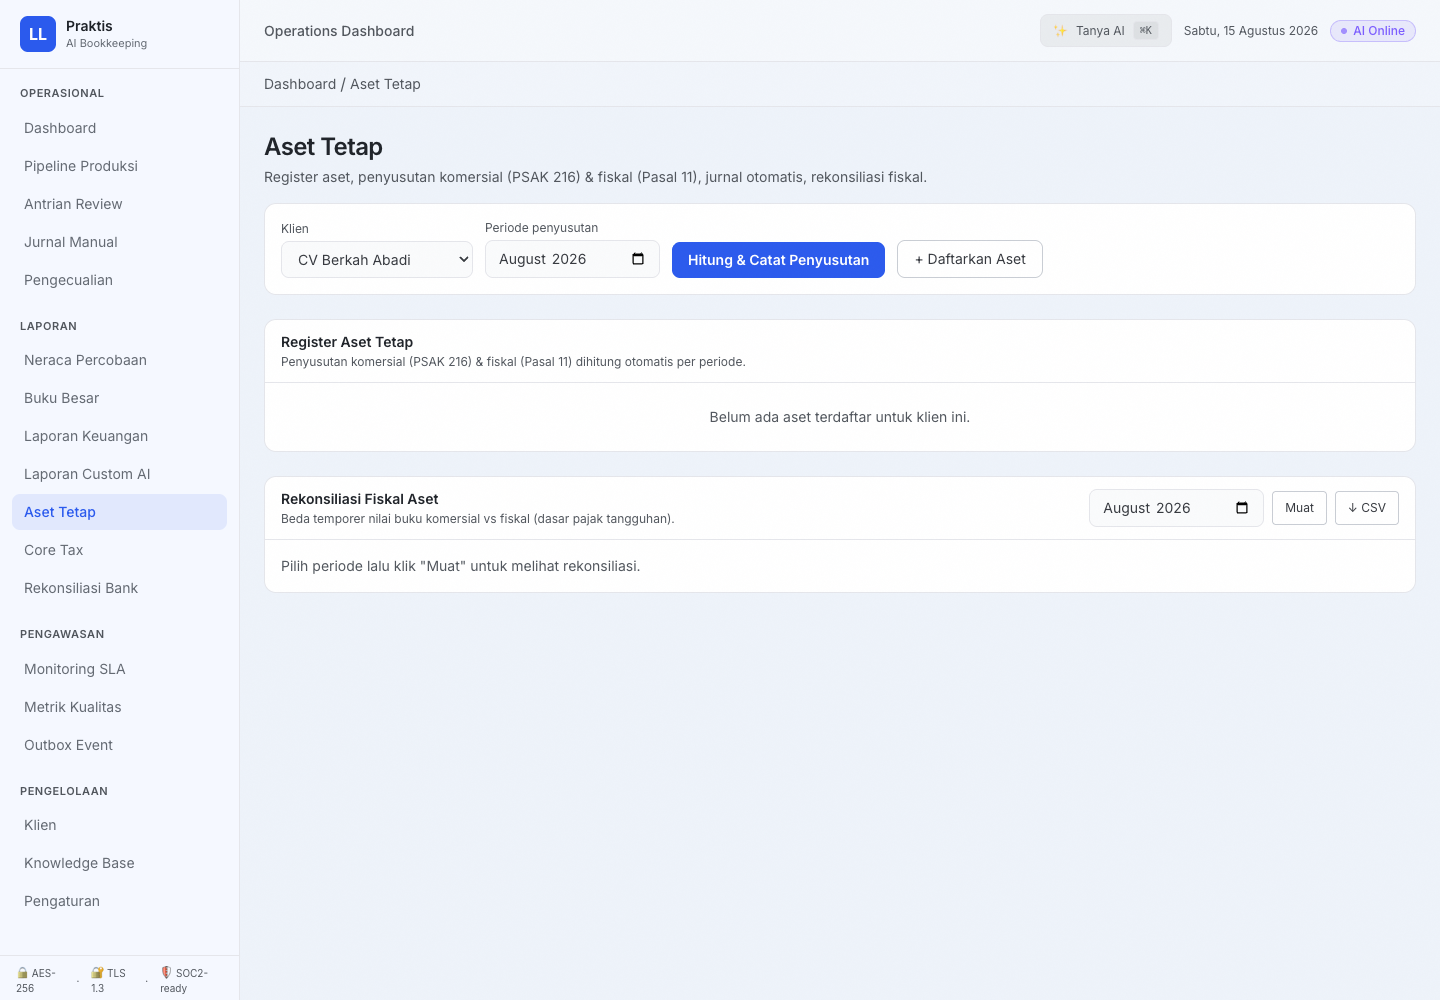
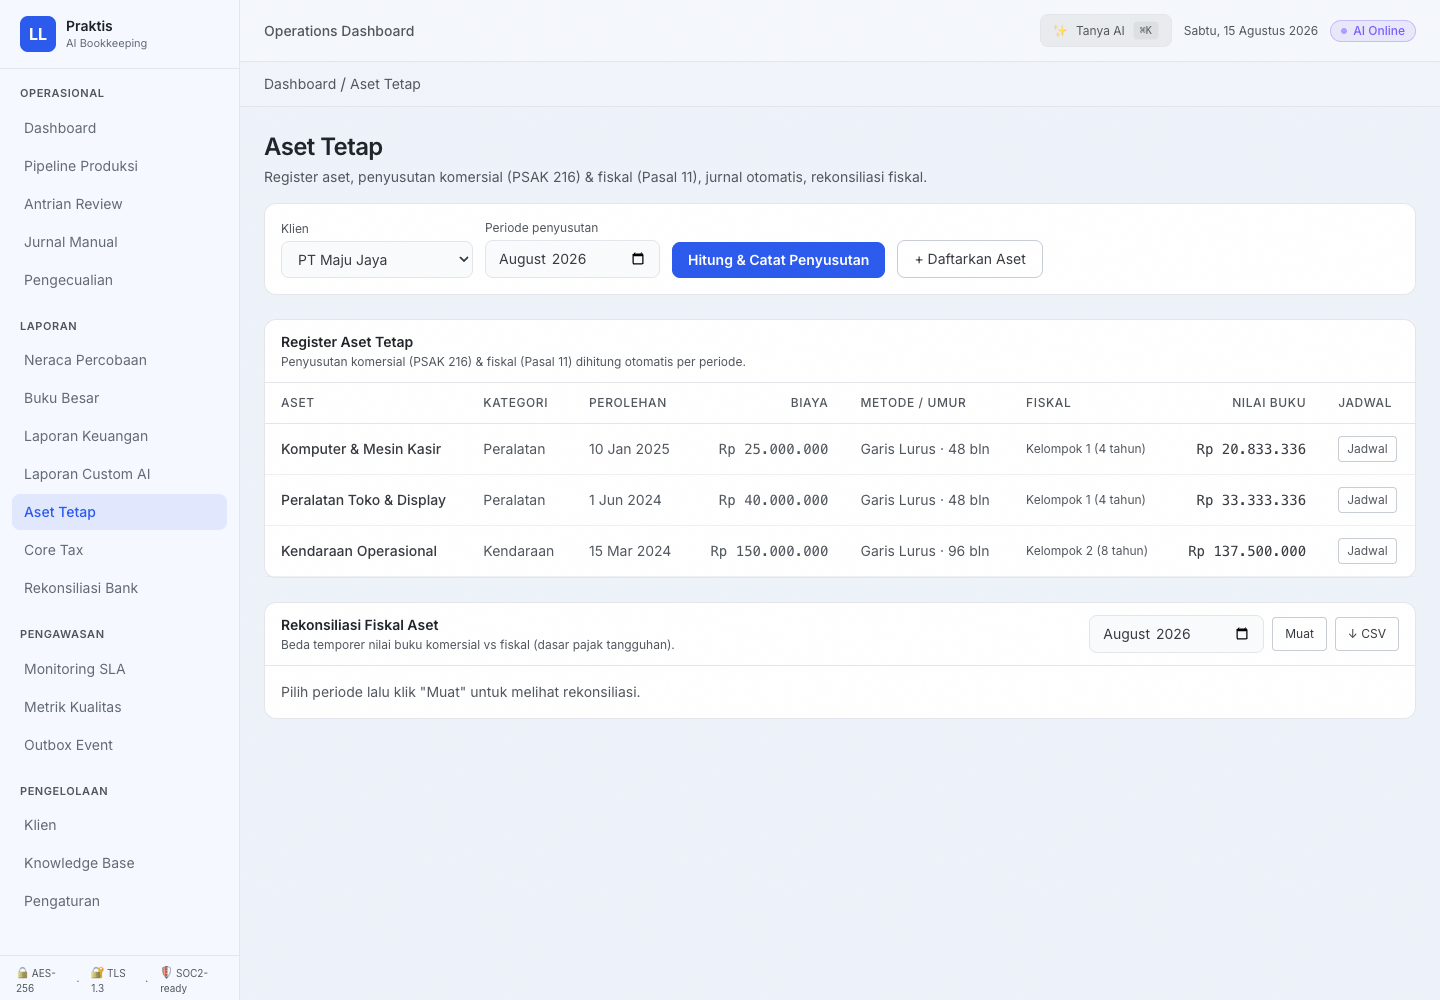
Seed demo modul sepi (aset+penyusutan, subledger, laporan custom AI) + re-screenshot 6 modul berisi data

diff --git a/projects/ledgerline/scripts/screenshot-seeded-modules.ts b/projects/ledgerline/scripts/screenshot-seeded-modules.ts
@@ -1,0 +1,90 @@
+import { chromium } from "playwright";
+import path from "node:path";
+
+const BASE = "https://web-production-7a593.up.railway.app";
+const OUT = path.join(process.cwd(), "..", "praktis-deck", "images-modul");
+
+async function main() {
+  const browser = await chromium.launch({
+    headless: true,
+    executablePath:
+      "/Users/staff/Library/Caches/ms-playwright/chromium-1234/chrome-mac-arm64/Google Chrome for Testing.app/Contents/MacOS/Google Chrome for Testing",
+  });
+  const page = await browser.newPage({ viewport: { width: 1440, height: 1000 } });
+
+  const shot = async (slug: string, wait = 1200) => {
+    await page.waitForTimeout(wait);
+    await page.screenshot({ path: path.join(OUT, slug + ".png") });
+    console.log("✓", slug);
+  };
+  const goto = async (route: string, wait = 1500) => {
+    await page.goto(BASE + route, { waitUntil: "load", timeout: 45000 }).catch(async () => {
+      await page.waitForTimeout(800);
+    });
+    await page.waitForTimeout(wait);
+  };
+
+  // Login
+  await page.goto(BASE + "/login", { waitUntil: "load", timeout: 45000 });
+  await page.fill('input[name="email"]', "admin@ledgerline.dev");
+  await page.fill('input[name="password"]', "password123");
+  await page.click('button[type="submit"]');
+  await page.waitForURL("**/dashboard", { timeout: 25000 });
+  await page.waitForTimeout(2000);
+
+  const clients = await page.evaluate(async () => {
+    const r = await fetch("/api/clients");
+    const b = (await r.json()) as { data?: Array<{ id: string; name: string }> };
+    return b.data ?? [];
+  });
+  const maju = clients.find((c) => c.name === "PT Maju Jaya") ?? clients[0];
+
+  // 1) Laporan Custom AI — daftar template
+  await goto("/dashboard/reports/custom", 2000);
+  await shot("mod-53-laporan-custom");
+  // pilih PT Maju Jaya agar konsisten
+  try {
+    await page.selectOption("select", { label: "PT Maju Jaya" });
+    await page.waitForTimeout(1800);
+  } catch {}
+  await shot("mod-53-laporan-custom");
+  // jalankan template pertama
+  const runBtn = page.locator('button:has-text("Jalankan")').first();
+  if (await runBtn.count()) {
+    await runBtn.click();
+    await page.waitForTimeout(1800);
+    await shot("mod-64-laporan-custom-hasil");
+  }
+
+  // 2) Aset Tetap
+  await goto("/dashboard/assets", 2000);
+  try {
+    await page.selectOption("select", { label: "PT Maju Jaya" });
+    await page.waitForTimeout(1800);
+  } catch {}
+  await shot("mod-54-aset-tetap");
+  const jadwalBtn = page.locator('button:has-text("Jadwal")').first();
+  if (await jadwalBtn.count()) {
+    await jadwalBtn.click();
+    await page.waitForTimeout(1400);
+    await shot("mod-65-aset-jadwal-penyusutan");
+  }
+
+  // 3) Profil klien (subledger + aging) + ledger subledger
+  await goto(`/dashboard/clients/${maju.id}`, 2200);
+  await shot("mod-61-profil-klien");
+  const slBtn = page.locator('button:has-text("Buku Besar")').first();
+  if (await slBtn.count()) {
+    await slBtn.click();
+    await page.waitForTimeout(1600);
+    await shot("mod-66-subledger-ledger");
+  }
+
+  console.log("SELESAI");
+  await browser.close();
+}
+
+main().catch((e) => {
+  console.error("FAIL:", e.message);
+  process.exit(1);
+});
